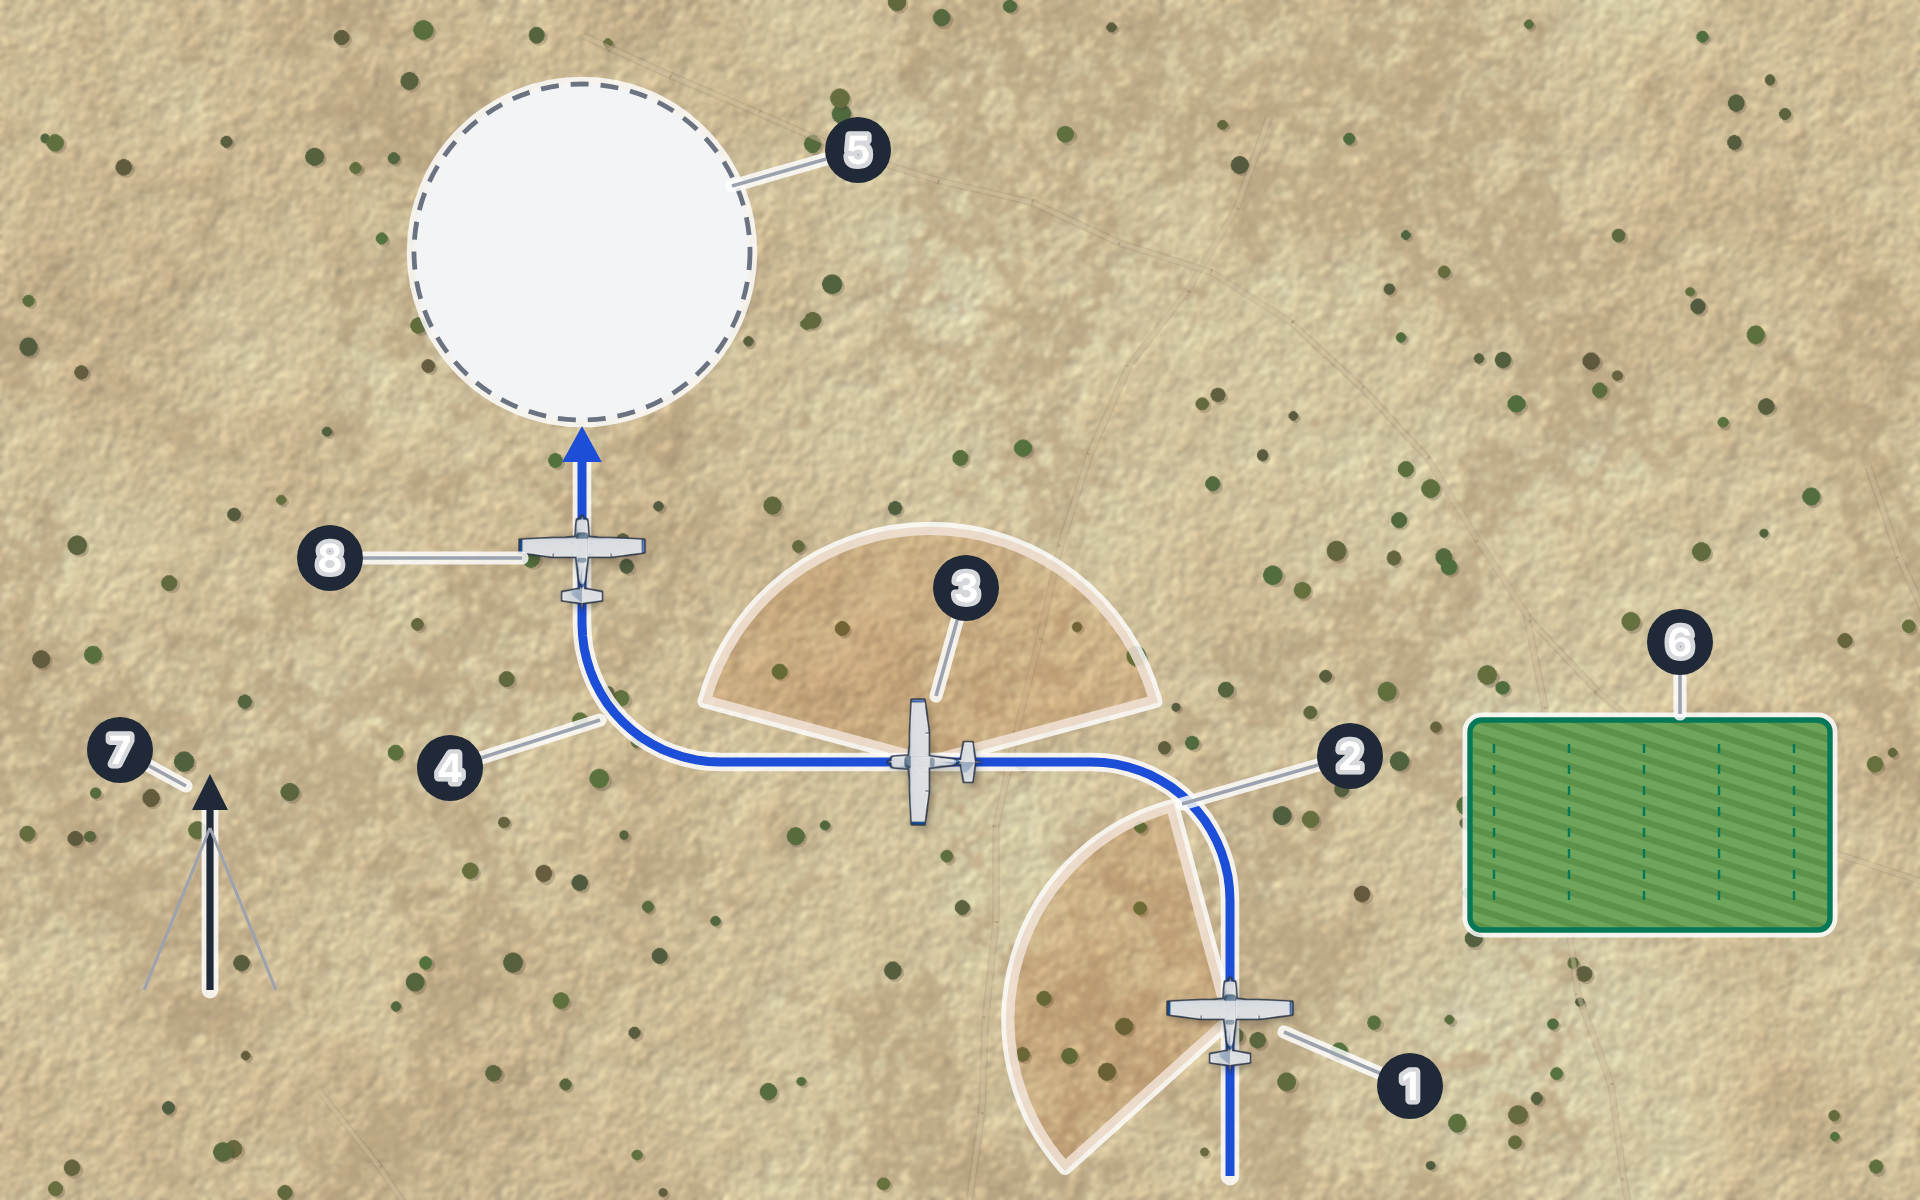
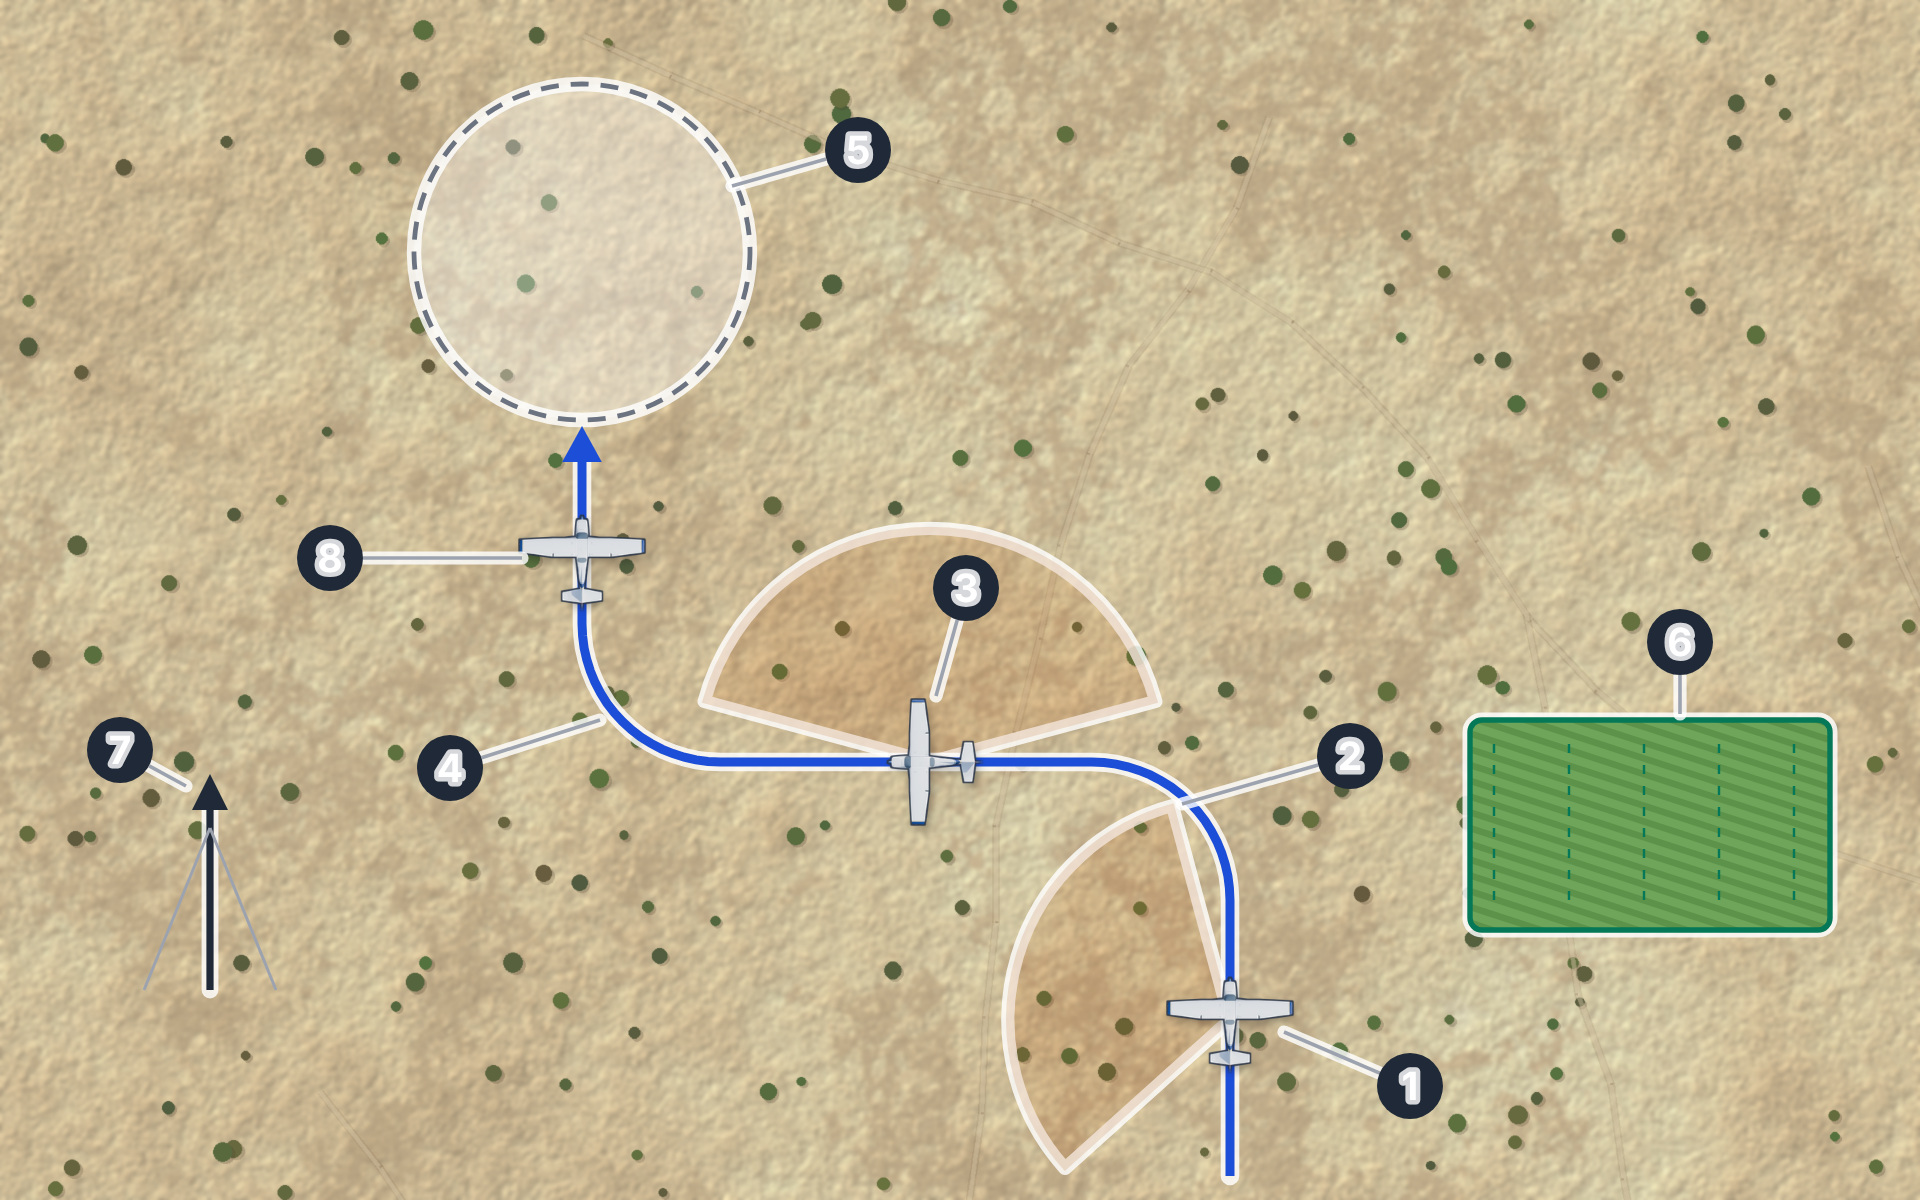
Plates: the two circuit figures that were plain SVG (26-1, 27-6) on the country
Their own illustrated drawings (cards, tags, blue circuits, the circuit unrolled in a sky card)
are kept; the flat ground is replaced by the terrain and the five and four flat aeroplanes by
the model's, at the same places and headings.

Claude-Session: https://claude.ai/code/session_01GaKzbGvzg6oJZTLUkbk9TR

Changed region(s): [[0.2188, 0.0617, 0.4062, 0.37]]

diff --git a/09_book_figures/handbook/figs/f_27_06_rectangular_course.py b/09_book_figures/handbook/figs/f_27_06_rectangular_course.py
@@ -1,0 +1,43 @@
+"""Figure 27-6. The rectangular course: crab on the legs and the bank in each corner. The book's illustrated figure (its SVG kept in old/: the field, the course in blue, the crab and the
+bank ranges at the corners, the tags) on an aerial view of the country (figs/terrain.py): fields of crop and ploughed plots round the field of the exercise (its rows kept), with the
+aeroplane of the model at the four places where the old drawing had its own, same heading and place. The numbered callouts are the old figure's."""
+from reskin import LOOK
+
+from figs import h_plan
+
+# the four aeroplanes of the old drawing: where, and which way (its rotate() turns the nose, which pointed east, clockwise; the picture of the model points north: 90 more)
+PLANES = [(305, 352, 0), (502, 245, 260.4), (345, 98, 180), (148, 205, 99.6)]
+SPRITES = [{"name": "sprite-top", "at": [x, y], "width": 47, "angle": a + 90, **LOOK} for x, y, a in PLANES]
+ROWS = ('<defs><pattern id="hpRows" width="10.4" height="10" patternUnits="userSpaceOnUse"><rect width="10.4" height="10" fill="#5B9748"/><rect width="5.2" height="10" fill="#6CA857"/></pattern></defs>')
+
+
+def plate():
+    return {
+        "id": "fig-27-06-rectangular-course",
+        "replaces": "fig-27-06-rectangular-course.svg",
+        "book_file": "plate-27-06-rectangular-course.jpg",
+        "caption": "Figure 27-6. The rectangular course: crab on the legs and the bank in each corner",
+        "desc": "Figure 27-6. The rectangular course: crab on the legs and the bank in each corner",
+        "legend": [
+            "Wind, 15 kt.",
+            "The field: fly at an equal distance outside its edges.",
+            "Entry on a 45° line to downwind.",
+            "Downwind leg: tailwind, highest groundspeed, no crab.",
+            "The steepest bank of the course, at the start of the turn onto base.",
+            "Base leg: nose toward the inside.",
+            "Upwind leg: headwind, lowest groundspeed, no crab.",
+            "Crosswind leg: nose toward the outside.",
+        ],
+        "canvas": [640, 440],
+        "background": "pale",
+        "reskin": h_plan.layer({
+            "svg": "fig-27-06-rectangular-course.svg",
+            "remove": [r'<path d="M \d+ \d+ q 20 -6 40 0 t 40 0 t 40 0" fill="none" stroke="#ffffff" stroke-width="1.6" opacity="0.6" stroke-linecap="round"/>'],       # the wave marks of the old ground
+            "replace": [['<rect width="640" height="440" fill="#f4f8fc"/>', '<rect x="0" y="0" width="640" height="440" fill="#ffffff"/>'],
+                        ['<rect x="8" y="6" width="624" height="428" rx="10" fill="url(#f2706-land)"/>', '<rect x="8" y="6" width="624" height="428" rx="10" fill="none"/>'],
+                        ['fill="#d6e3c7" opacity="0.7"', 'fill="url(#hpCrop)" opacity="0.93"'], ['fill="#d1e0c1" opacity="0.7"', 'fill="url(#hpCrop)" opacity="0.93"'],
+                        ['fill="#e4dcc0" opacity="0.7"', 'fill="url(#hpPlot)" opacity="0.93"'],
+                        ['<rect x="200" y="150" width="250" height="150" rx="3" fill="url(#f2706-fld)"', '<rect x="200" y="150" width="250" height="150" rx="3" fill="url(#hpRows)"']],
+            "drop": [['<g transform="translate(305 352) rotate(0) scale(1.05)"', '<rect x="30" y="37.7" width="72" height="4.6"', {"sprites": SPRITES}]],
+        }, "terrain-27-06", seed=276, kind="farm", veil=0.28, markup=ROWS),
+    }

diff --git a/09_book_figures/handbook/figs/f_26_01_circuit.py b/09_book_figures/handbook/figs/f_26_01_circuit.py
@@ -1,0 +1,42 @@
+"""Figure 26-1. The circuit in the example aeroplane, with speed and flap setting at each point. The book's illustrated figure (its SVG kept in old/: the runway, the blue circuit, the tags
+with the speed and flap of each point, the circuit unrolled below in a card of sky) on an aerial view of the country (figs/terrain.py) instead of the flat green ground, with the aeroplane
+of the model (figs/sprites.py) at the five places where the old drawing had its own, same heading and place. The small aeroplanes in the tags and the numbered callouts are the old figure's."""
+from reskin import LOOK
+
+from figs import h_plan
+
+# the five aeroplanes of the old drawing: where, and which way (its rotate() turns the nose, which pointed east, clockwise; the picture of the model points north: 90 more)
+PLANES = [(140, 75, 180), (90, 178, 110), (230, 235, 0), (570, 178, 250), (515, 75, 180)]
+SPRITES = [{"name": "sprite-top", "at": [x, y], "width": 43, "angle": a + 90, **LOOK} for x, y, a in PLANES]
+
+
+def plate():
+    return {
+        "id": "fig-26-01-circuit",
+        "replaces": "fig-26-01-circuit.svg",
+        "book_file": "plate-26-01-circuit.jpg",
+        "caption": "Figure 26-1. The circuit in the example aeroplane, with speed and flap setting at each point",
+        "desc": "Figure 26-1. The circuit in the example aeroplane, with speed and flap setting at each point",
+        "legend": [
+            "Line up on runway 27, checks complete (Chapter 25), flaps up in this example.",
+            "Full power; rotate at `VR` 55 kt.",
+            "Climb at `VY` 75 kt; after-takeoff checks at a safe height.",
+            "Crosswind turn beyond the runway end, no lower than your school's height.",
+            "Downwind at circuit height: circuit power, before-landing checks.",
+            "Abeam the threshold: power back, descent begins; below `VFE` 90 kt, flaps 10°.",
+            "Base, with the threshold about 45° behind: flaps 20°. Look along final first.",
+            "Final: flaps 30°, 65 kt, stable by the gate (Figure 26-3).",
+            "The aiming point.",
+            "Wind from the west.",
+        ],
+        "canvas": [640, 450],
+        "background": "pale",
+        "reskin": h_plan.layer({
+            "svg": "fig-26-01-circuit.svg",
+            "remove": [r'<circle cx="[\d.]+" cy="[\d.]+" r="[\d.]+" fill="#9db38d" opacity="0.7"/>'],                  # the bushes of the old ground: the country has its own
+            "replace": [['<rect width="640" height="450" fill="#f4f8fc"/>', '<rect x="0" y="0" width="640" height="450" fill="#ffffff"/>'],
+                        ['<rect x="8" y="4" width="624" height="288" rx="10" fill="url(#f2601-land)"/>', '<rect x="8" y="4" width="624" height="288" rx="10" fill="none"/>'],
+                        ['<rect x="230" y="66" width="180" height="18" rx="2" fill="url(#f2601-rwy)"/>', '<rect x="226.6" y="62.6" width="186.8" height="24.8" rx="3" fill="#B3A688" fill-opacity="0.55"/><rect x="230" y="66" width="180" height="18" rx="2" fill="url(#hpAsphalt)"/>']],
+            "drop": [['<g transform="translate(140 75) rotate(180) scale(0.95)"', '<ellipse cx="330" cy="56" rx="7" ry="2.4"', {"sprites": SPRITES}]],
+        }, "terrain-26-01", seed=261, kind="plain", veil=0.30),
+    }
